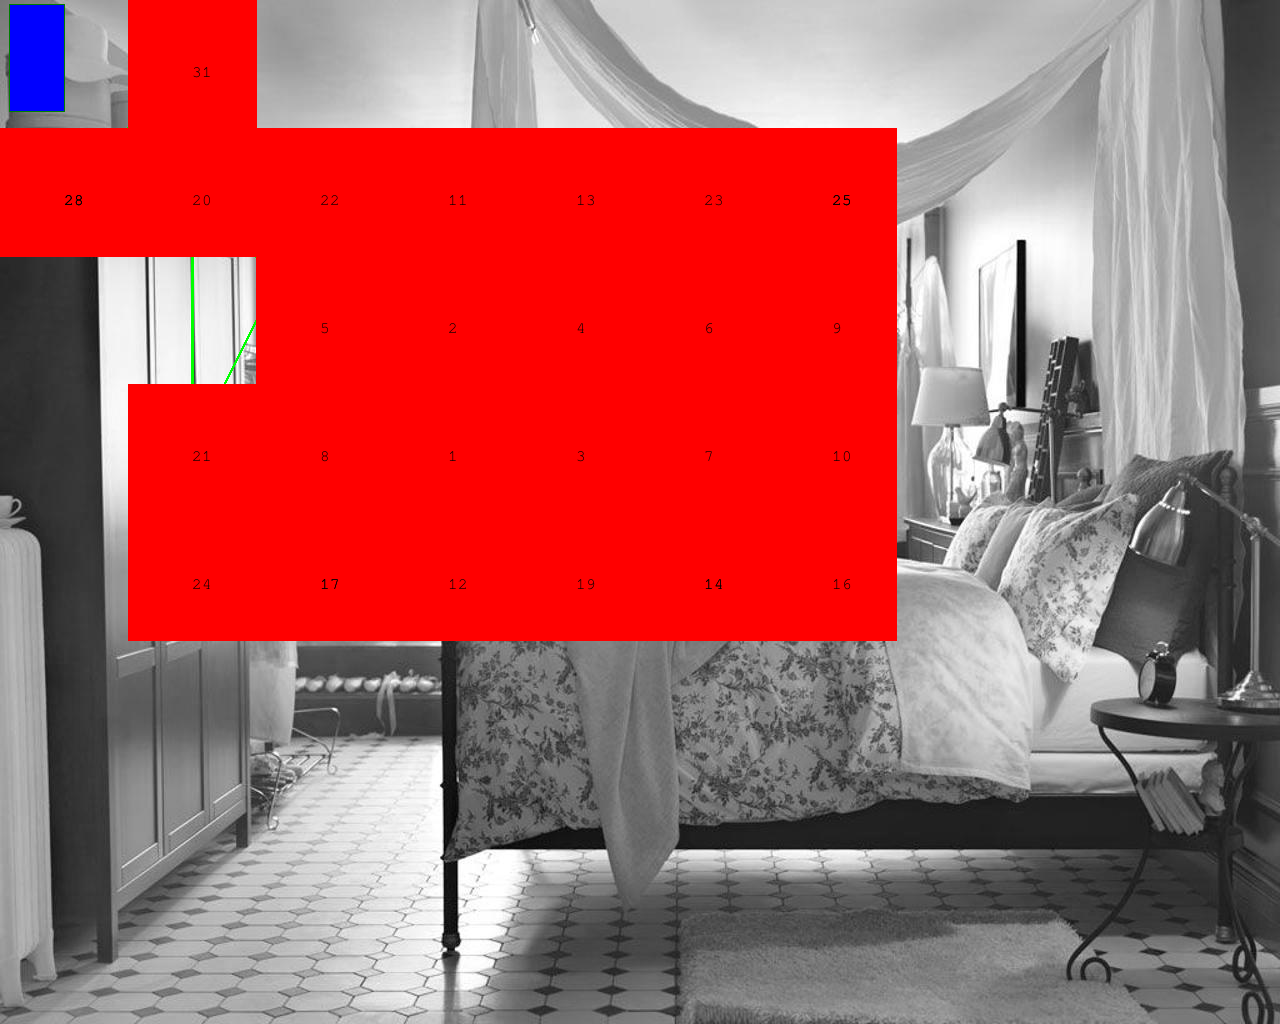
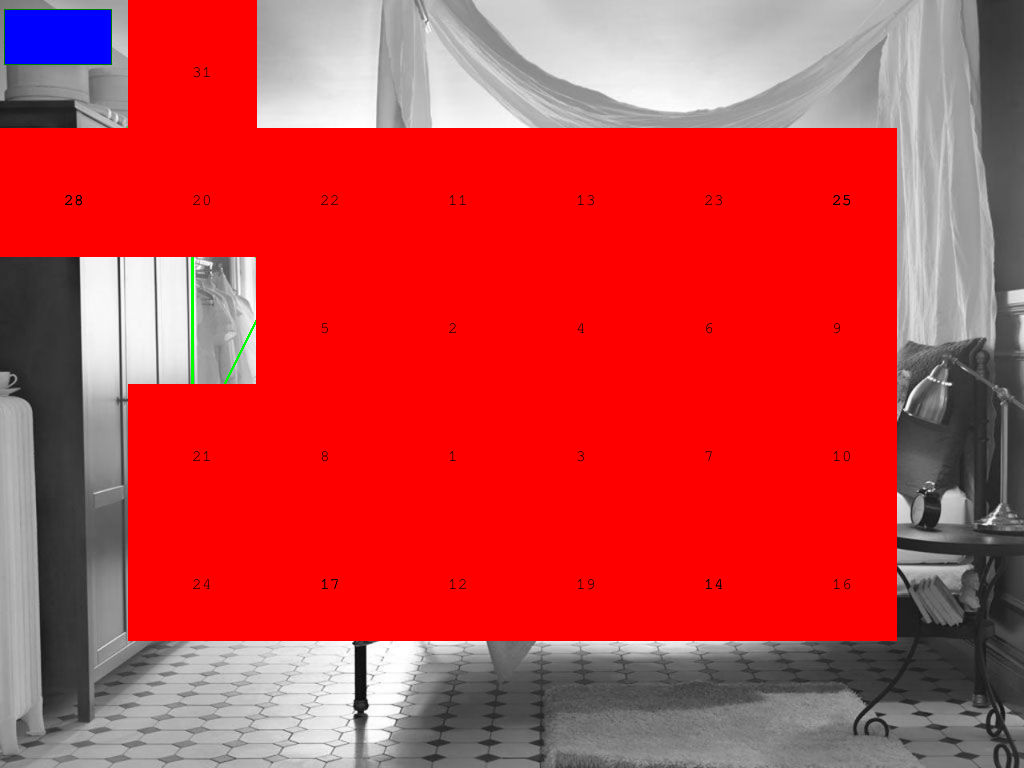
fixeado script

diff --git a/Metrics/resize_and_crop_targets.py b/Metrics/resize_and_crop_targets.py
@@ -1,0 +1,51 @@
+from skimage import io, transform, img_as_ubyte, color
+from os import listdir, path, mkdir, rename
+from scipy.io import savemat
+import json
+from math import floor
+
+datasetDir = '../data_images/images/'
+targetsDir = '../data_images/templates/'
+datasetDirOld = '../data_images/images_old/'
+targetsDirOld = '../data_images/templates_old/'
+stimuli_size = (768, 1024)
+trials_properties_file = '../data_images/trials_properties_IVSN.json'
+
+def main():
+
+    target_positions = { "target_positions" : []}
+    initial_fixations = { "initial_fixations" : []}
+
+    if not(path.exists(datasetDirOld)):
+        mkdir(datasetDirOld)
+    if not(path.exists(targetsDirOld)):
+        mkdir(targetsDirOld)
+    with open(trials_properties_file) as fp:
+        trials_properties = json.load(fp)
+        
+    for trial_properties in trials_properties:
+        image_file = trial_properties['image']
+        rename(datasetDir + image_file, datasetDirOld + image_file)
+        image_resized = io.imread(datasetDirOld + image_file)
+        #image_resized = color.rgb2gray(image_resized)
+        image_resized = transform.resize(image_resized, stimuli_size)
+        io.imsave(datasetDir + image_file, img_as_ubyte(image_resized), check_contrast=False)
+        target_bbox = (trial_properties['target_matched_row'], trial_properties['target_matched_column'], trial_properties['target_height'] + trial_properties['target_matched_row'], \
+        trial_properties['target_width'] + trial_properties['target_matched_column'])
+        target_bbox = rescale_coordinates(target_bbox[0], target_bbox[1], target_bbox[2], target_bbox[3], trial_properties['image_height'], trial_properties['image_width'], stimuli_size[0], stimuli_size[1])
+        template = image_resized[target_bbox[0]:target_bbox[2], target_bbox[1]:target_bbox[3]]     
+        io.imsave(targetsDir + image_file[:-4] + '_template.jpg', img_as_ubyte(template), check_contrast=False)
+        target_positions["target_positions"].append({ "image" : image_file, "template" : image_file[:-4] + '_template.jpg', "matched_column" : target_bbox[1] + 1, "matched_row" : target_bbox[0] + 1, "template_side_length" : target_bbox[2] - target_bbox[0], "template_columns" : target_bbox[3] - target_bbox[1] }) #side length y columns son distancias, no hace falta sumar 1
+        initial_fixations["initial_fixations"].append({"image" : image_file, "initial_fix" : (trial_properties['initial_fixation_row'] + 1, trial_properties['initial_fixation_column'] + 1)})
+    savemat("target_positions_filtered.mat", target_positions)
+    savemat("initial_fixations.mat", initial_fixations)
+
+def rescale_coordinates(start_row, start_column, end_row, end_column, img_height, img_width, new_img_height, new_img_width):
+    rescaled_start_row = round((start_row / img_height) * new_img_height)
+    rescaled_start_column = round((start_column / img_width) * new_img_width)
+    rescaled_end_row = floor((end_row / img_height) * new_img_height)
+    rescaled_end_column = floor((end_column / img_width) * new_img_width)
+
+    return (rescaled_start_row, rescaled_start_column, rescaled_end_row, rescaled_end_column)
+    
+main()

diff --git a/Metrics/plot_scanpath_on_image.py b/Metrics/plot_scanpath_on_image.py
@@ -1,4 +1,5 @@
 import json
+from skimage import io, transform, img_as_ubyte
 from os import listdir, path, curdir
 import math
 from PIL import Image, ImageDraw, ImageFont
@@ -8,11 +9,14 @@ def plot_scanpath(scanpath_data,image_name):
         dataset_image_path = '../Datasets/cIBS/images/'
     elif scanpath_data['dataset'] == 'IVSN Natural Design' or scanpath_data['dataset'] == 'IVSN Natural Design Dataset':
         dataset_image_path = '../Datasets/IVSN/stimuli/' #estandaricemos los nombres que aparecen en el json
-    with Image.open(dataset_image_path + image_name) as im:
+ 
+        im = io.imread(dataset_image_path + image_name)
+        im = img_as_ubyte(transform.resize(im, (scanpath_data['image_height'],scanpath_data['image_width'])))
+        im = Image.fromarray(im)
         im = im.convert("RGBA")
         target_bbox = scanpath_data['target_bbox']
-        target_top_left_coordinates = (target_bbox[0],target_bbox[1])
-        target_bottom_right_coordinates = (target_bbox[2],target_bbox[3])
+        target_top_left_coordinates = (target_bbox[1],target_bbox[0])
+        target_bottom_right_coordinates = (target_bbox[3],target_bbox[2])
         target_shape = [target_top_left_coordinates, target_bottom_right_coordinates] 
         
         image_with_scanpath_plotted = ImageDraw.Draw(im)
